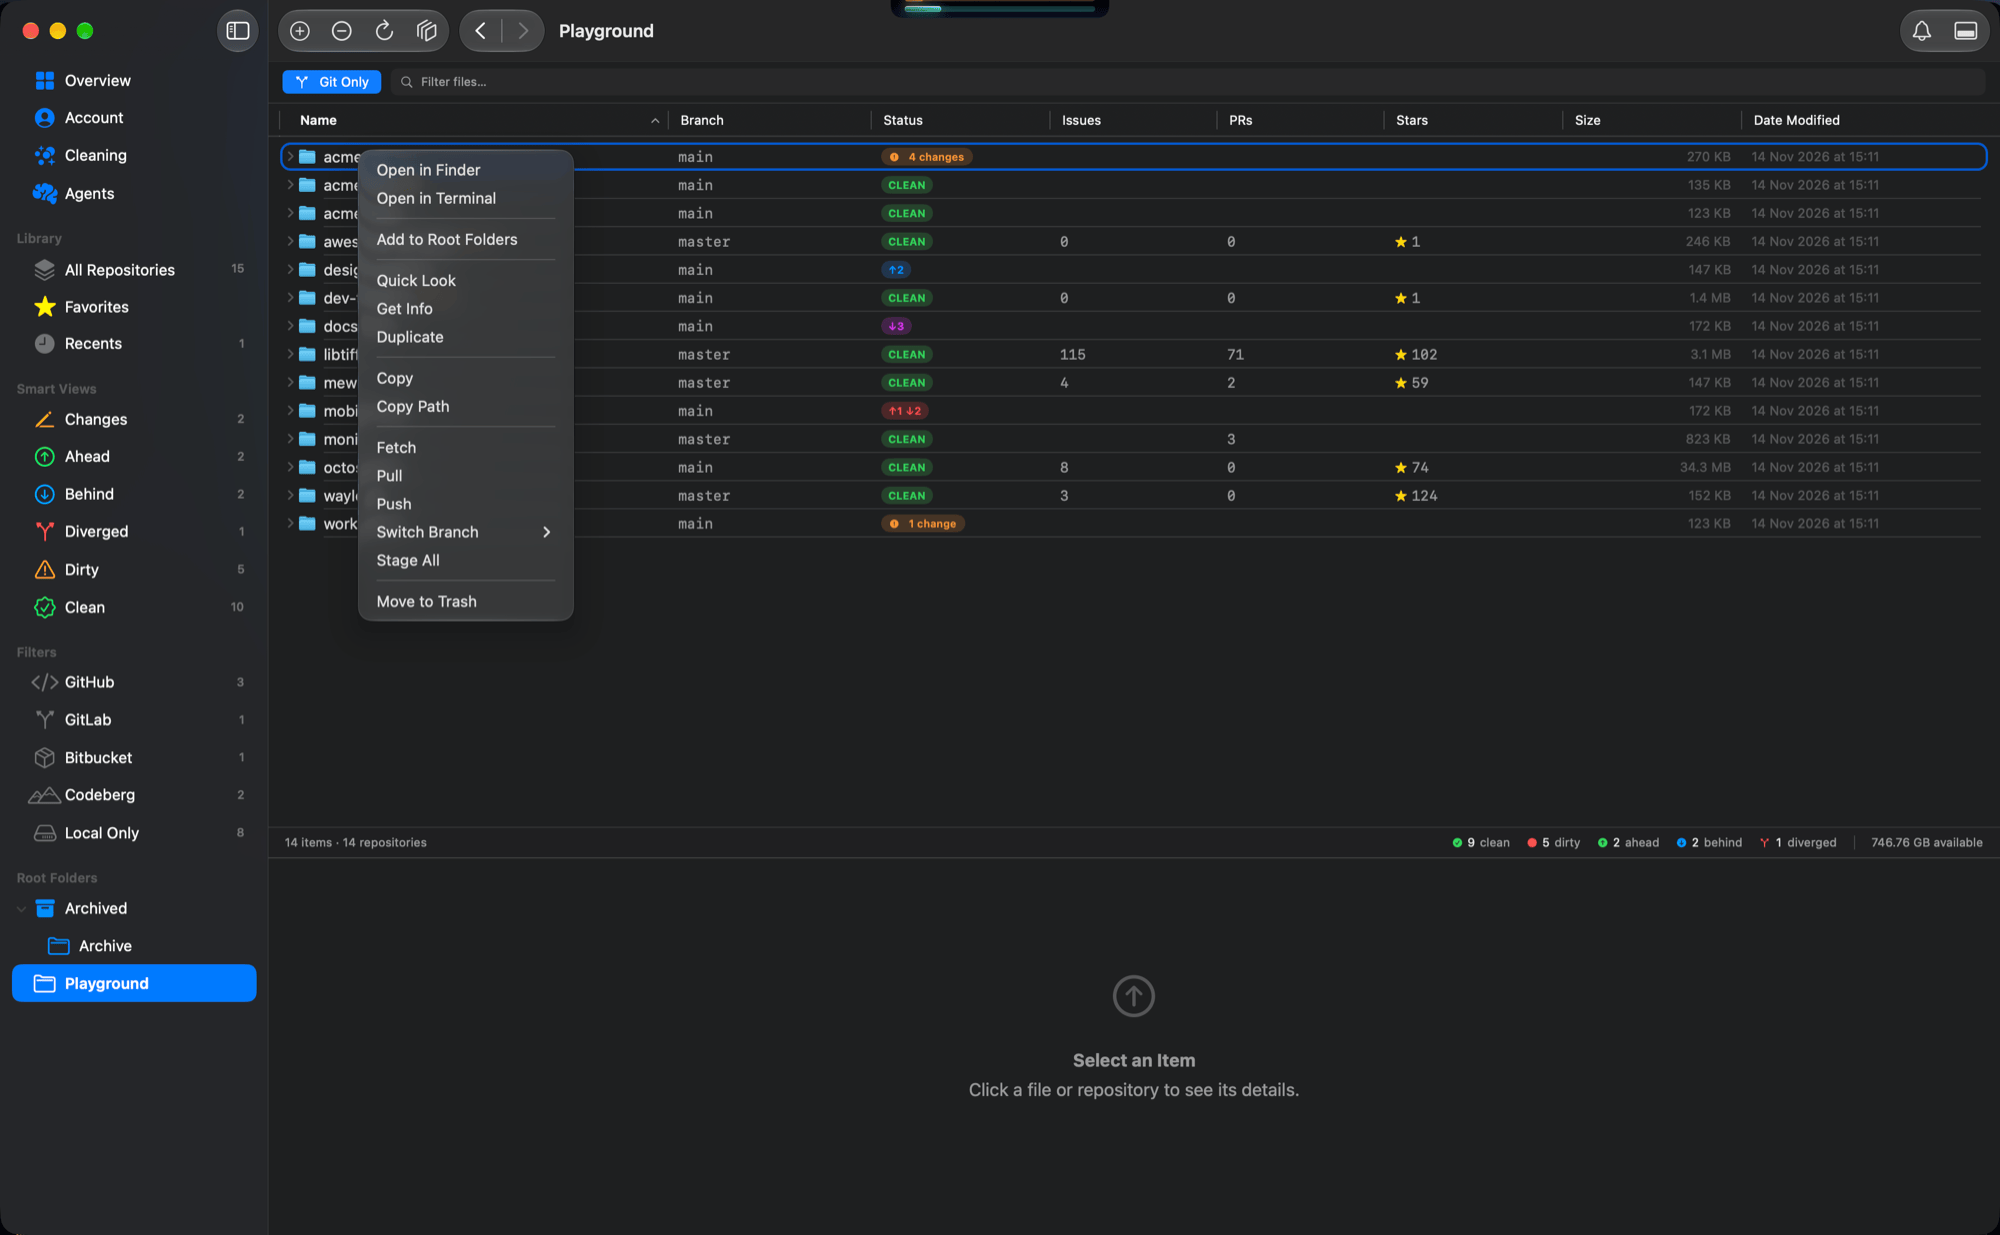
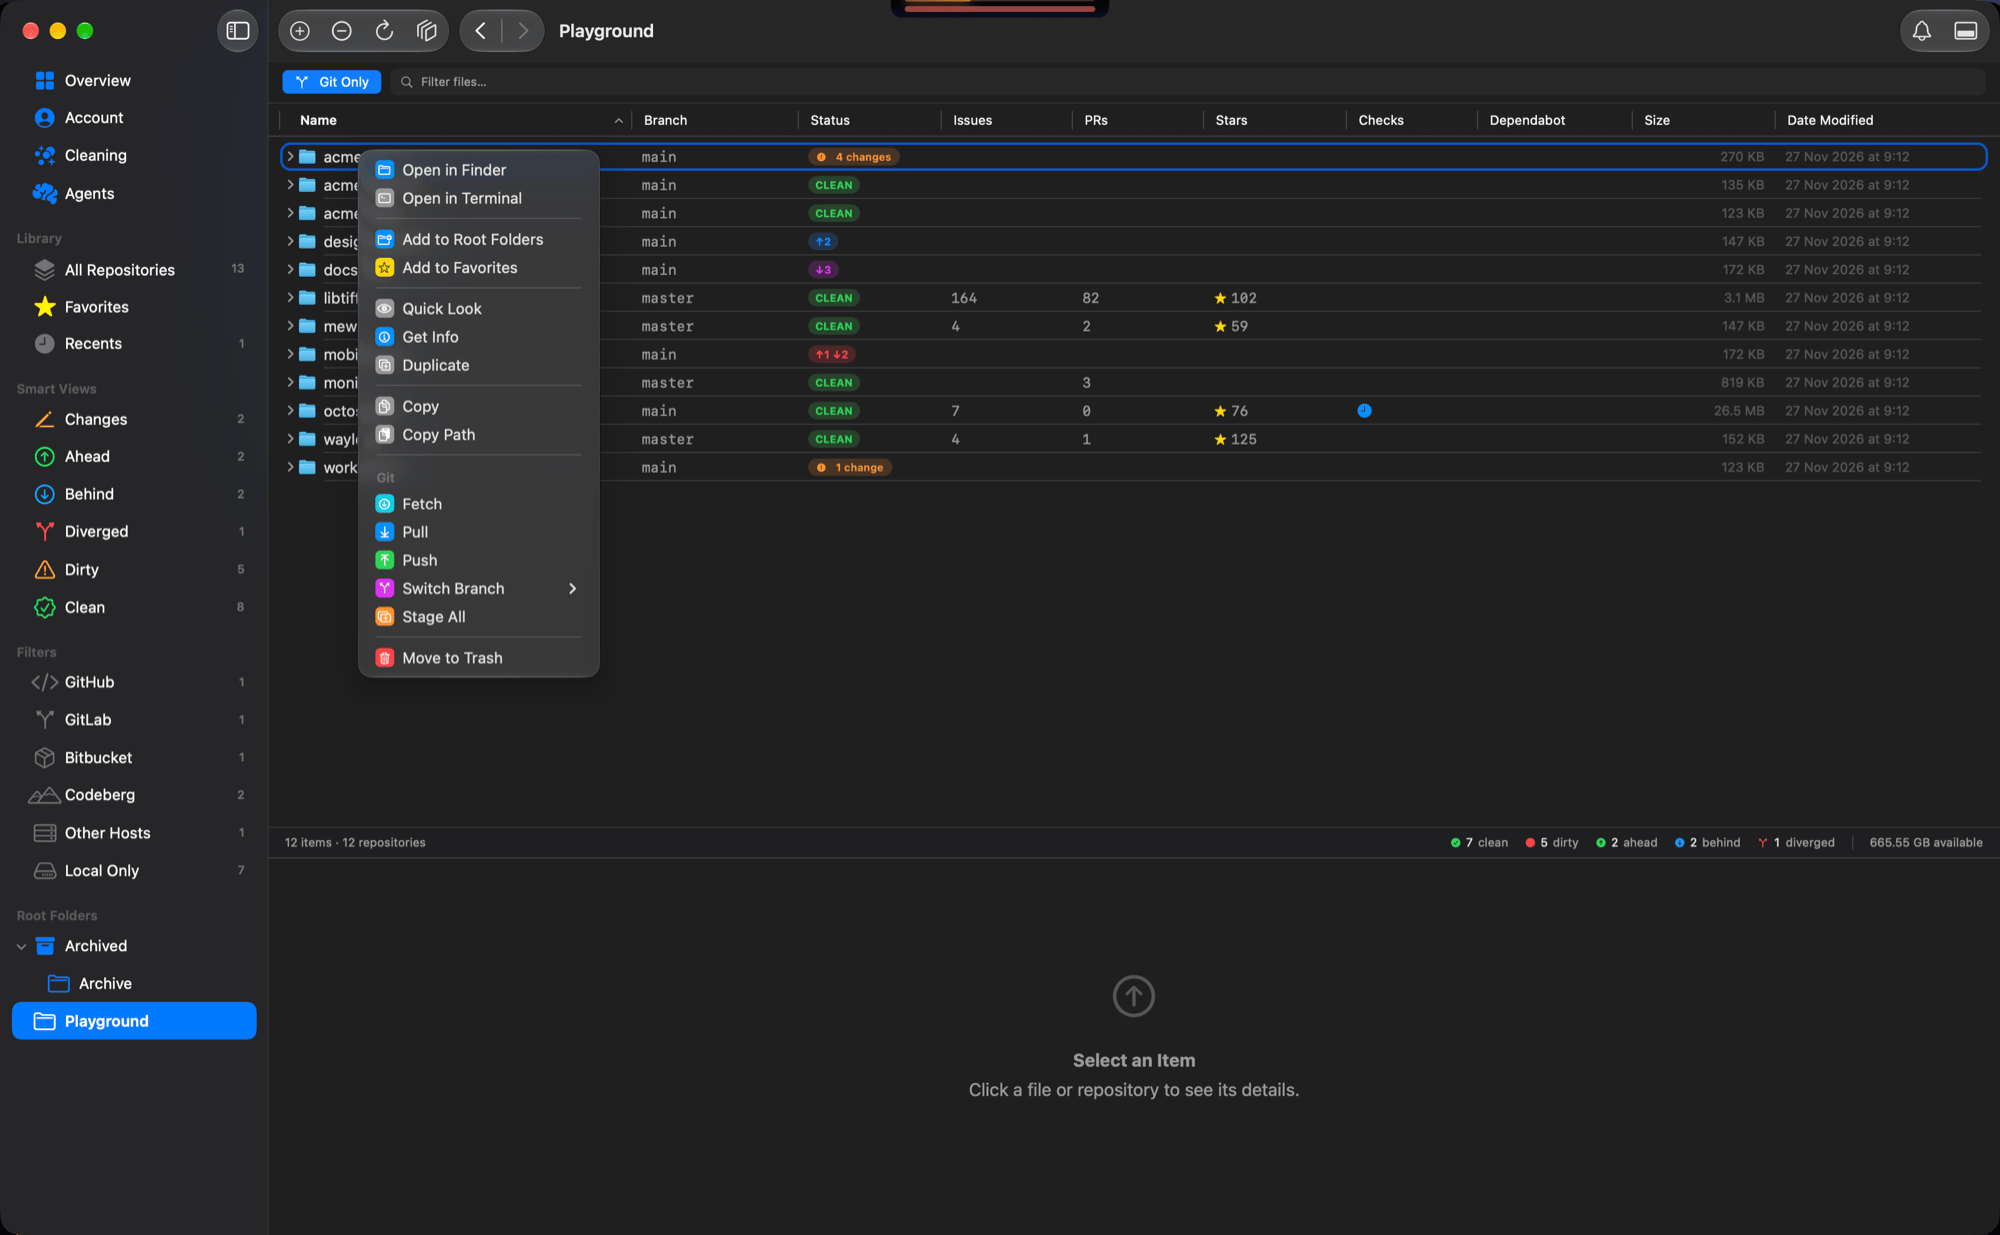
feat(sparkle): publish FinderGit v0.78.0 to appcast

diff --git a/public/release-notes/0.78.0.html b/public/release-notes/0.78.0.html
@@ -1,0 +1,107 @@
+<!DOCTYPE html>
+<html lang="en">
+<head>
+<meta charset="utf-8">
+<meta name="viewport" content="width=device-width, initial-scale=1">
+<title>FinderGit 0.78.0 — Release Notes</title>
+<style>
+  :root {
+    color-scheme: light dark;
+    --bg: #ffffff;
+    --fg: #1a1a1a;
+    --accent: #007aff;
+    --muted: #6b6b73;
+    --code-bg: #f4f4f5;
+    --border: rgba(0,0,0,0.12);
+  }
+  @media (prefers-color-scheme: dark) {
+    :root {
+      --bg: #1c1c1e;
+      --fg: #ececec;
+      --muted: #9c9ca5;
+      --code-bg: #2c2c2e;
+      --border: rgba(255,255,255,0.14);
+    }
+  }
+  * { box-sizing: border-box; }
+  body {
+    font: 14px/1.55 -apple-system, BlinkMacSystemFont, "SF Pro Text", "Helvetica Neue", sans-serif;
+    color: var(--fg);
+    background: var(--bg);
+    margin: 0 auto;
+    padding: 20px 24px 40px;
+    max-width: 720px;
+  }
+  header.page-header {
+    border-bottom: 1px solid var(--border);
+    padding-bottom: 14px;
+    margin-bottom: 22px;
+  }
+  header.page-header h1 { font-size: 1.7em; margin: 0 0 4px; letter-spacing: -0.02em; }
+  header.page-header .subtitle { color: var(--muted); margin: 0; font-size: 0.92em; }
+  h1, h2, h3, h4 { letter-spacing: -0.01em; margin: 1.5em 0 0.5em; }
+  h1 { font-size: 1.4em; }
+  h2 { font-size: 1.2em; }
+  h3 { font-size: 1em; }
+  a { color: var(--accent); }
+  hr { border: 0; border-top: 1px solid var(--border); margin: 22px 0; }
+  ul, ol { padding-left: 1.4em; }
+  li { margin: 4px 0; }
+  code {
+    font: 0.9em ui-monospace, "SF Mono", Menlo, Consolas, monospace;
+    background: var(--code-bg);
+    padding: 1px 5px;
+    border-radius: 3px;
+  }
+  pre {
+    background: var(--code-bg);
+    padding: 12px 14px;
+    border-radius: 6px;
+    overflow-x: auto;
+    font-size: 0.88em;
+  }
+  pre code { background: transparent; padding: 0; font-size: 1em; }
+  blockquote {
+    margin: 12px 0;
+    padding-left: 12px;
+    border-left: 3px solid var(--border);
+    color: var(--muted);
+  }
+  table { border-collapse: collapse; width: 100%; margin: 12px 0; font-size: 0.95em; }
+  th, td { border: 1px solid var(--border); padding: 6px 10px; text-align: left; }
+  th { background: var(--code-bg); }
+  img { max-width: 100%; }
+</style>
+</head>
+<body>
+<header class="page-header">
+  <h1>FinderGit 0.78.0</h1>
+  <p class="subtitle">Release notes</p>
+</header>
+<p>FinderGit 0.78.0 — Favorites from anywhere, a color and an icon for each root folder, and menus in color</p>
+<h2>Highlights</h2>
+<ul>
+<li><strong>Favorites from anywhere.</strong> A repository used to go into Favorites only from the repository list's right-click menu, and the empty Favorites list asked you to star one without saying where. Now the star at the top of a repository's details adds it, and so do <strong>Add to Favorites</strong> in the file browser's menu and <strong>Repository → Add to Favorites</strong> (⌘D). A star after the name marks a favorite in the file browser as it does in the list, and the empty list says where the star is.</li>
+<li><strong>A color and an icon for each root folder and group.</strong> Right-click a root folder or a group in the sidebar and choose <strong>Color and Icon…</strong>: one of 13 colors or the accent color, one of 47 icons or the folder's own, with a preview of the row. A group's icon is drawn filled, as its archive box is, and a root keeps its look when you move or rename it.</li>
+<li><strong>Context menus in color.</strong> Every item in the file browser's, the repository list's and the sidebar's menus now has its icon on a colored tile, the color saying what it does: blue opens, Pull is blue and Push green as Behind and Ahead are in the sidebar, staging is orange, yellow is Favorites, red throws away. The Git actions sit under their own heading.</li>
+</ul>
+<h2>Bug fixes</h2>
+<ul>
+<li>With several tabs open, a root folder or group added in one tab didn't show in the others, and a change made later in a tab opened earlier could put its older list back over it. Every tab now shares one set of root folders and groups.</li>
+</ul>
+<h2>Under the hood</h2>
+<ul>
+<li>The root folder store is now one for the app rather than one per window. Each window keeps its own selection and history, and follows a root's moves from the moment it opened.</li>
+<li>Root folder styles are kept by path in an app-wide store, as the Favorites are; a group's style lives in the group, optional so the groups saved before decode unchanged, and decoded so that an unreadable value costs its look and never the groups.</li>
+<li>A menu draws an SF Symbol in the text color whatever color the code asks for, so each icon is a small image drawn when the menu opens: the system colors follow the appearance, and the white glyph stays readable on a highlighted row, where a colored glyph vanished into the accent color.</li>
+</ul>
+<h2>Install</h2>
+<ol>
+<li>Download <code class="notranslate">FinderGit-0.78.0.dmg</code></li>
+<li>Open the DMG and drag FinderGit into Applications (or open it from there, and it offers to move itself)</li>
+<li>Launch normally — the app is signed with an Apple Developer ID and notarized by Apple</li>
+</ol>
+<h2>Requirements</h2>
+<p>macOS 15 or later. Universal binary (Apple Silicon and Intel).</p>
+</body>
+</html>

diff --git a/config/index.ts b/config/index.ts
@@ -98,13 +98,13 @@ export default {
     defaultLanguage: 'en',
   },
   app: {
-    version: '0.77.0',
+    version: '0.78.0',
     // Publication date of `version`, UTC, written by release.sh next to the
     // version itself. It is the OFFLINE FALLBACK for the homepage release
     // strip: the live date and the release count come from the GitHub
     // releases API, and this is what the strip shows when that call is
     // rate-limited or down. Also the JSON-LD `dateModified`.
-    releaseDate: '2026-11-26',
+    releaseDate: '2026-11-27',
     minMacOS: '15.0',
     downloadUrl: 'https://github.com/gfazioli/findergit-website/releases/latest',
   },
